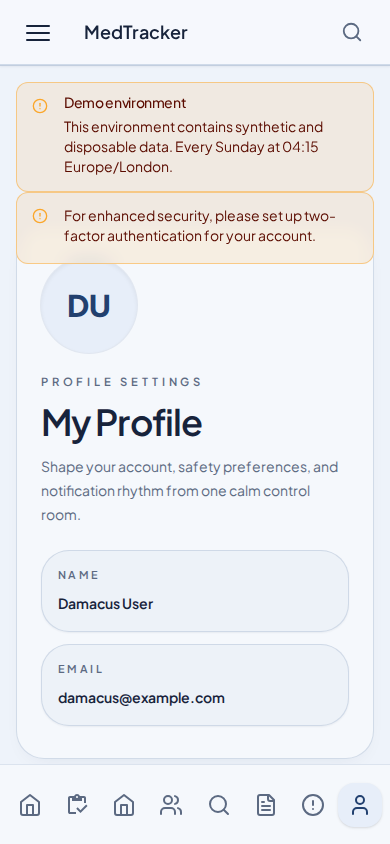
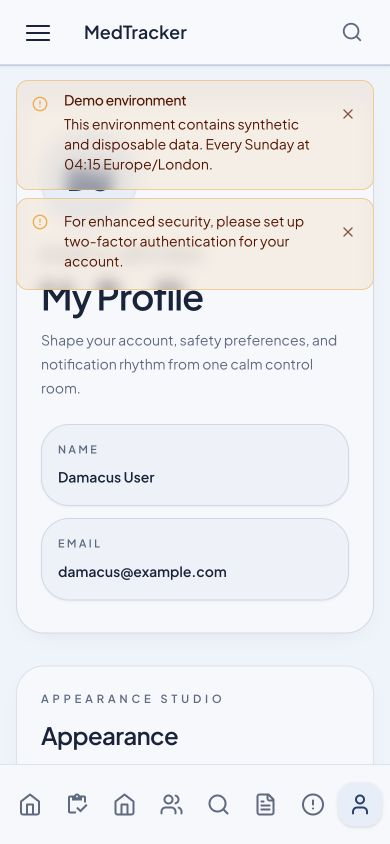
fix(profile): make notices dismissible

diff --git a/spec/system/demo_mode_notice_spec.rb b/spec/system/demo_mode_notice_spec.rb
@@ -13,6 +13,9 @@ RSpec.describe 'Demo mode notice', :browser do
         const reminder = Array.from(document.querySelectorAll('[role="alert"]')).find((element) =>
           element.textContent.includes('For enhanced security, please set up two-factor authentication')
         );
+        if (!demo || !reminder) {
+          return { missing: [!demo && 'demo', !reminder && 'reminder'].filter(Boolean) };
+        }
         const demoRect = demo.getBoundingClientRect();
         const reminderRect = reminder.getBoundingClientRect();
         const overlap = demoRect.left < reminderRect.right && reminderRect.left < demoRect.right &&
@@ -26,7 +29,7 @@ RSpec.describe 'Demo mode notice', :browser do
           return element.contains(document.elementFromPoint(rect.left + (rect.width / 2), rect.top + (rect.height / 2)));
         });
 
-        return { overlap, visible: visible && unobscured };
+        return { missing: [], overlap, visible: visible && unobscured };
       })()
     JS
   end
@@ -34,11 +37,13 @@ RSpec.describe 'Demo mode notice', :browser do
   let(:profile_flash_viewport_script) do
     <<~JS
       (() => {
-        const flash = document.querySelector('#flash > div');
-        const rect = flash.getBoundingClientRect();
+        const stack = document.querySelector('[data-testid="notice-stack"]');
+        if (!stack) return { missing: true };
+        const rect = stack.getBoundingClientRect();
 
         return {
-          fixed: getComputedStyle(flash).position === 'fixed',
+          missing: false,
+          fixed: getComputedStyle(stack).position === 'fixed',
           visible: rect.top >= 0 && rect.left >= 0 && rect.right <= window.innerWidth && rect.bottom <= window.innerHeight
         };
       })()
@@ -89,8 +94,47 @@ RSpec.describe 'Demo mode notice', :browser do
       expect(page).to have_css('[role="status"][aria-labelledby="demo-environment-title"]', text: 'Demo environment')
       expect(page).to have_css('[role="alert"]', text: 'For enhanced security, please set up two-factor authentication')
 
-      expect(profile_notice_geometry).to include('overlap' => false, 'visible' => true)
+      expect(profile_notice_geometry).to include('missing' => [], 'overlap' => false, 'visible' => true)
     end
+  end
+
+  it 'lets the user dismiss both persistent notices' do
+    ENV['DEMO_MODE'] = 'true'
+    user = users(:damacus)
+    clear_2fa_for_account(user.person.account)
+    login_as(user)
+    visit profile_path
+
+    demo_notice = find('[role="status"][aria-labelledby="demo-environment-title"]')
+    reminder = find('[role="alert"]', text: 'For enhanced security, please set up two-factor authentication')
+
+    [demo_notice, reminder].each do |notice|
+      geometry = notice.evaluate_script(<<~JS)
+        (() => {
+          const button = this.querySelector('button[aria-label="Close"]');
+          const icon = button?.querySelector('svg');
+          const noticeRect = this.getBoundingClientRect();
+          const buttonRect = button?.getBoundingClientRect();
+          const iconRect = icon?.getBoundingClientRect();
+
+          return {
+            button_inside: buttonRect && buttonRect.top >= noticeRect.top && buttonRect.bottom <= noticeRect.bottom,
+            icon_visible: iconRect && iconRect.width >= 16 && iconRect.height >= 16
+          };
+        })()
+      JS
+
+      expect(geometry).to include('button_inside' => true, 'icon_visible' => true)
+    end
+
+    demo_notice.find('button[aria-label="Close"]').click
+    expect(page).to have_no_css('[role="status"][aria-labelledby="demo-environment-title"]')
+
+    reminder.find('button[aria-label="Close"]').click
+    expect(page).to have_no_css(
+      '[role="alert"]',
+      text: 'For enhanced security, please set up two-factor authentication'
+    )
   end
 
   it 'keeps Turbo profile feedback fixed in view after a scrolled mobile update' do
@@ -108,7 +152,7 @@ RSpec.describe 'Demo mode notice', :browser do
     click_button 'Save time zone'
 
     expect(page).to have_text('Profile updated successfully')
-    expect(profile_flash_viewport_geometry).to include('fixed' => true, 'visible' => true)
+    expect(profile_flash_viewport_geometry).to include('missing' => false, 'fixed' => true, 'visible' => true)
   end
 
   def profile_notice_geometry

diff --git a/app/components/layouts/flash.rb b/app/components/layouts/flash.rb
@@ -11,25 +11,17 @@ module Components
       end
 
       def view_template
-        div(class: container_class) do
-          div(class: content_class) do
-            render_notice if @notice
-            render_warning if @warning
-            render_alert if @alert
-          end
+        div(class: content_class) do
+          render_notice if @notice
+          render_warning if @warning
+          render_alert if @alert
         end
       end
 
       private
 
-      def container_class
-        return 'fixed inset-x-0 top-20 z-[60] pointer-events-none md:top-4' unless DemoMode.enabled?
-
-        'fixed inset-x-0 top-48 z-[60] pointer-events-none md:ml-64 md:top-28'
-      end
-
       def content_class
-        'container mx-auto px-4'
+        'container mx-auto space-y-2 px-4'
       end
 
       def render_notice
@@ -43,9 +35,10 @@ module Components
 
       def render_warning
         div(data: { controller: 'flash', flash_dismiss_after_value: 8000 }, class: 'pointer-events-auto') do
-          Alert(variant: :warning) do
+          Alert(variant: :warning, class: 'relative pr-12') do
             alert_circle_icon
             AlertDescription { @warning }
+            dismiss_button
           end
         end
       end
@@ -65,6 +58,23 @@ module Components
 
       def alert_circle_icon
         render Icons::AlertCircle.new(size: 16)
+      end
+
+      def dismiss_button
+        button(
+          type: 'button',
+          class: 'absolute right-2 top-4 flex h-9 w-9 items-center justify-center rounded-full p-0 ' \
+                 'text-current opacity-70 hover:bg-black/5 hover:opacity-100 focus-visible:outline-none ' \
+                 'focus-visible:ring-2 focus-visible:ring-current',
+          aria: { label: I18n.t('ruby_ui.common.close') },
+          data: { action: 'click->flash#dismiss' }
+        ) do
+          render Icons::X.new(
+            size: 16,
+            class: 'absolute left-1/2 top-1/2 -translate-x-1/2 -translate-y-1/2',
+            aria_hidden: 'true'
+          )
+        end
       end
     end
   end

diff --git a/spec/components/layouts/flash_spec.rb b/spec/components/layouts/flash_spec.rb
@@ -3,27 +3,10 @@
 require 'rails_helper'
 
 RSpec.describe Components::Layouts::Flash, type: :component do
-  it 'renders flash container above navigation' do
+  it 'renders messages for the layout notification region' do
     rendered = render_inline(described_class.new(notice: 'Saved'))
 
-    expect(rendered.to_html).to include('fixed')
-    expect(rendered.to_html).to include('top-20')
-    expect(rendered.to_html).to include('md:top-4')
-    expect(rendered.to_html).to include('z-[60]')
-  end
-
-  it 'offsets the fixed flash below the demo notice' do
-    original_value = ENV.fetch('DEMO_MODE', nil)
-    ENV['DEMO_MODE'] = 'true'
-
-    rendered = render_inline(described_class.new(notice: 'Saved'))
-
-    expect(rendered.to_html).to include('fixed')
-    expect(rendered.to_html).to include('top-48')
-    expect(rendered.to_html).to include('md:ml-64')
-    expect(rendered.to_html).to include('md:top-28')
-  ensure
-    original_value.nil? ? ENV.delete('DEMO_MODE') : ENV['DEMO_MODE'] = original_value
+    expect(rendered.css('.container').text).to include('Saved')
   end
 
   describe 'notice flash' do
@@ -55,6 +38,13 @@ RSpec.describe Components::Layouts::Flash, type: :component do
       rendered = render_inline(described_class.new(warning: 'Set up 2FA'))
 
       expect(rendered.css('svg').any?).to be true
+    end
+
+    it 'lets the user dismiss the warning' do
+      rendered = render_inline(described_class.new(warning: 'Set up 2FA'))
+
+      button = rendered.at_css('button[aria-label="Close"]')
+      expect(button['data-action']).to eq('click->flash#dismiss')
     end
   end
 

diff --git a/app/components/layouts/demo_notice.rb b/app/components/layouts/demo_notice.rb
@@ -7,15 +7,36 @@ module Components
         section(
           role: 'status',
           aria: { labelledby: 'demo-environment-title' },
-          class: 'relative z-40 px-4 pt-4 md:ml-64'
+          class: 'pointer-events-auto px-4',
+          data: { controller: 'flash', flash_dismiss_after_value: 0 }
         ) do
-          Alert(variant: :warning) do
+          Alert(variant: :warning, class: 'relative pr-12') do
             render Icons::AlertCircle.new(size: 16)
             AlertTitle(id: 'demo-environment-title') { 'Demo environment' }
             AlertDescription do
               plain "This environment contains synthetic and disposable data. #{DemoMode.reset_schedule}."
             end
+            dismiss_button
           end
+        end
+      end
+
+      private
+
+      def dismiss_button
+        button(
+          type: 'button',
+          class: 'absolute right-2 top-4 flex h-9 w-9 items-center justify-center rounded-full p-0 ' \
+                 'text-current opacity-70 hover:bg-black/5 hover:opacity-100 focus-visible:outline-none ' \
+                 'focus-visible:ring-2 focus-visible:ring-current',
+          aria: { label: I18n.t('ruby_ui.common.close') },
+          data: { action: 'click->flash#dismiss' }
+        ) do
+          render Icons::X.new(
+            size: 16,
+            class: 'absolute left-1/2 top-1/2 -translate-x-1/2 -translate-y-1/2',
+            aria_hidden: 'true'
+          )
         end
       end
     end

diff --git a/spec/requests/login_layout_spec.rb b/spec/requests/login_layout_spec.rb
@@ -38,6 +38,19 @@ RSpec.describe 'Login layout' do
     expect(response.body).not_to include('nav__brand-link')
   end
 
+  it 'keeps anonymous feedback at the standard viewport position in demo mode' do
+    original_value = ENV.fetch('DEMO_MODE', nil)
+    ENV['DEMO_MODE'] = 'true'
+
+    get login_path
+
+    notice_stack = response.parsed_body.at_css('[data-testid="notice-stack"]')
+    expect(notice_stack['class']).to include('top-20')
+    expect(notice_stack['class']).not_to include('md:ml-64')
+  ensure
+    original_value.nil? ? ENV.delete('DEMO_MODE') : ENV['DEMO_MODE'] = original_value
+  end
+
   it 'keeps an authenticated owner in the household shell while setting up MFA' do
     user = users(:admin)
     household = ensure_api_household_for(user)

diff --git a/spec/components/layouts/demo_notice_spec.rb b/spec/components/layouts/demo_notice_spec.rb
@@ -11,4 +11,13 @@ RSpec.describe Components::Layouts::DemoNotice, type: :component do
     expect(rendered.text).to include('synthetic and disposable')
     expect(rendered.text).to include('Every Sunday at 04:15 Europe/London')
   end
+
+  it 'lets the user dismiss the notice' do
+    rendered = render_inline(described_class.new)
+
+    notice = rendered.at_css('[data-controller="flash"]')
+    button = notice.at_css('button[aria-label="Close"]')
+    expect(notice['data-flash-dismiss-after-value']).to eq('0')
+    expect(button['data-action']).to eq('click->flash#dismiss')
+  end
 end

diff --git a/app/components/layouts/auth_layout.rb b/app/components/layouts/auth_layout.rb
@@ -39,7 +39,10 @@ module Components
           end
 
           body(class: 'bg-background text-foreground') do
-            div(id: 'flash')
+            div(
+              id: 'flash',
+              class: 'fixed inset-x-0 top-20 z-[60] pointer-events-none md:top-4'
+            )
 
             main do
               render @component if @component
